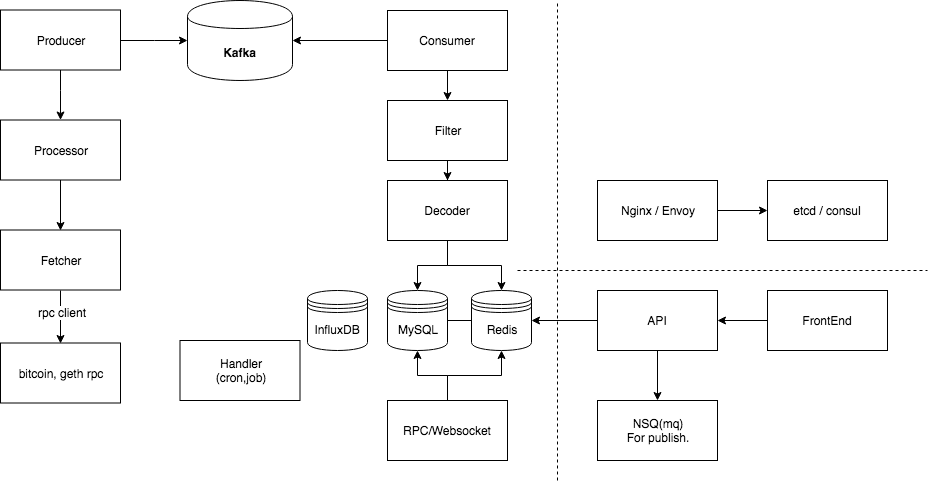
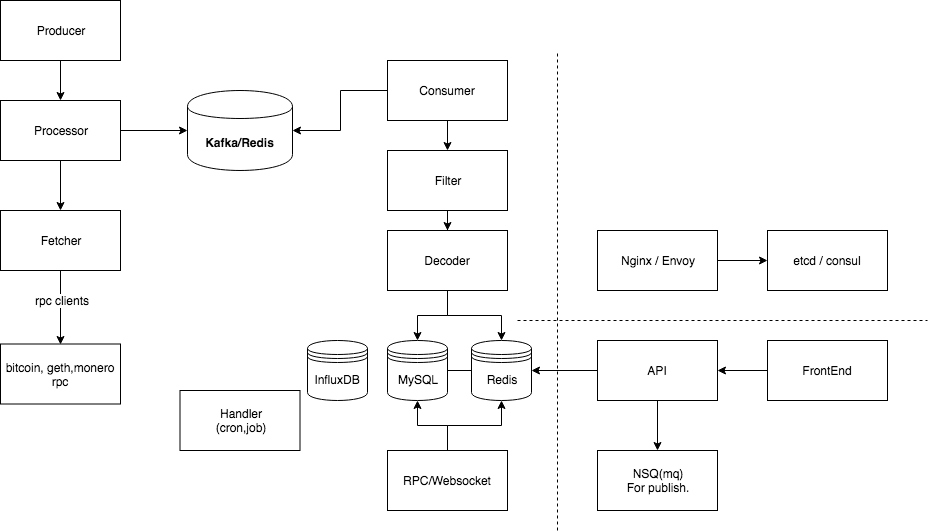
update monero get block and architecture pic

diff --git a/src/rpc/client.go b/src/rpc/client.go
@@ -7,7 +7,6 @@ import (
 	"encoding/json"
 	"time"
 	"bytes"
-	"fmt"
 	"github.com/pkg/errors"
 	"github.com/dubuqingfeng/explorer-parser/src/producer/config"
 	"github.com/gabstv/httpdigest"
@@ -71,7 +70,6 @@ func newRPCClient(nodeConfig config.NodeConfig) *RpcClient {
 func (this *RpcClient) call(method string, params interface{}) (response rpcResponse, err error) {
 	// build http request
 	timer := time.NewTimer(2 * time.Second)
-	fmt.Println("rpc client base call")
 
 	request := rpcRequest{time.Now().UnixNano(), "2.0", method, params}
 	payload, err := json.Marshal(request)
@@ -82,7 +80,6 @@ func (this *RpcClient) call(method string, params interface{}) (response rpcResp
 
 	req, err := http.NewRequest("POST", this.address, bytes.NewBuffer(payload))
 	if err != nil {
-		log.Error(err)
 		return rpcResponse{}, err
 	}
 
@@ -91,11 +88,8 @@ func (this *RpcClient) call(method string, params interface{}) (response rpcResp
 	if this.authType == "base" && (this.user != "" || this.password != "") {
 		req.SetBasicAuth(this.user, this.password)
 	}
-	fmt.Println(req.Header)
 	// Timer
 	resp, err := this.DoRequest(timer, req)
-	fmt.Println(err)
-
 	if err != nil {
 		log.Error(err)
 		return rpcResponse{}, err
@@ -106,9 +100,16 @@ func (this *RpcClient) call(method string, params interface{}) (response rpcResp
 	if err != nil {
 		return rpcResponse{}, err
 	}
-	fmt.Println(string(body))
+	//fmt.Println(string(body))
+	err = json.Unmarshal(body, &response)
+	if err != nil {
+		return rpcResponse{}, err
+	}
 
-	//err = json.Unmarshal(body, &response)
+	if response.Error != nil {
+		return rpcResponse{}, errors.New("rpc call error")
+	}
+
 	return response, nil
 }
 

diff --git a/src/fetchers/xmr/monerod.go b/src/fetchers/xmr/monerod.go
@@ -2,7 +2,6 @@ package xmr
 
 import (
 	"github.com/dubuqingfeng/explorer-parser/src/fetchers"
-	"fmt"
 	"github.com/dubuqingfeng/explorer-parser/src/producer/config"
 	"github.com/dubuqingfeng/explorer-parser/src/rpc"
 )
@@ -13,26 +12,36 @@ type XMRFetcher struct {
 	fetchers.Fetcher
 }
 
-func (this XMRFetcher) Fetch(title string) (bool, string) {
-	fmt.Printf("test")
+func (this XMRFetcher) Fetch(title string) (bool, map[string]string) {
+	strings := make(map[string]string)
 	// async rpc client call
-	this.GetBlockCount()
-	this.GetBlock(string(78923))
-	return false, "test"
+	_, get_block_count := this.GetBlockCount()
+	strings["get_block_count"] = get_block_count
+	_, get_block := this.GetBlock("78923", "")
+	strings["get_block"] = get_block
+	return true, strings
 }
 
 func (this XMRFetcher) GetBlockCount() (bool, string) {
-	this.RPCCall("get_block_count", nil)
-	return false, "test"
+	result, err := this.RPCCall("get_block_count", nil)
+	if err != nil {
+		return false, err.Error()
+	}
+	return true, result
 }
 
-func (this XMRFetcher) GetBlock(height string) (bool, string) {
-	this.RPCCall("getblock", height)
-	return false, "test"
+func (this XMRFetcher) GetBlock(height string, hash string) (bool, string) {
+	param := make(map[string]string)
+	param["height"] = height
+	param["hash"] = hash
+	result, err := this.RPCCall("getblock", param)
+	if err != nil {
+		return false, err.Error()
+	}
+	return true, result
 }
 
 func (this XMRFetcher) RPCCall(method string, param interface{}) (message string, err error) {
-	fmt.Println(method)
 	rpcClients := rpc.NewClients(this.NodeConfigs)
 	message, err = rpcClients.Call(method, param)
 	return message, err

diff --git a/src/rpc/clients.go b/src/rpc/clients.go
@@ -1,7 +1,6 @@
 package rpc
 
 import (
-	"fmt"
 	"github.com/dubuqingfeng/explorer-parser/src/producer/config"
 )
 
@@ -20,12 +19,14 @@ func NewClients(nodeConfigs []config.NodeConfig) *rpcClients {
 }
 
 func (this *rpcClients) Call(method string, param interface{}) (message string, err error) {
-	fmt.Println("rpc clients call")
 	for _, value := range this.clients {
 		result, err := value.call(method, param)
 		if err == nil {
-			return result.JSONRPC, nil
+			return string(result.Result), nil
 		}
+		// avoid goroutine leak
+		//go func(client *RpcClient, method string) {
+		//}(value, method)
 	}
 	return "test", nil
 }
